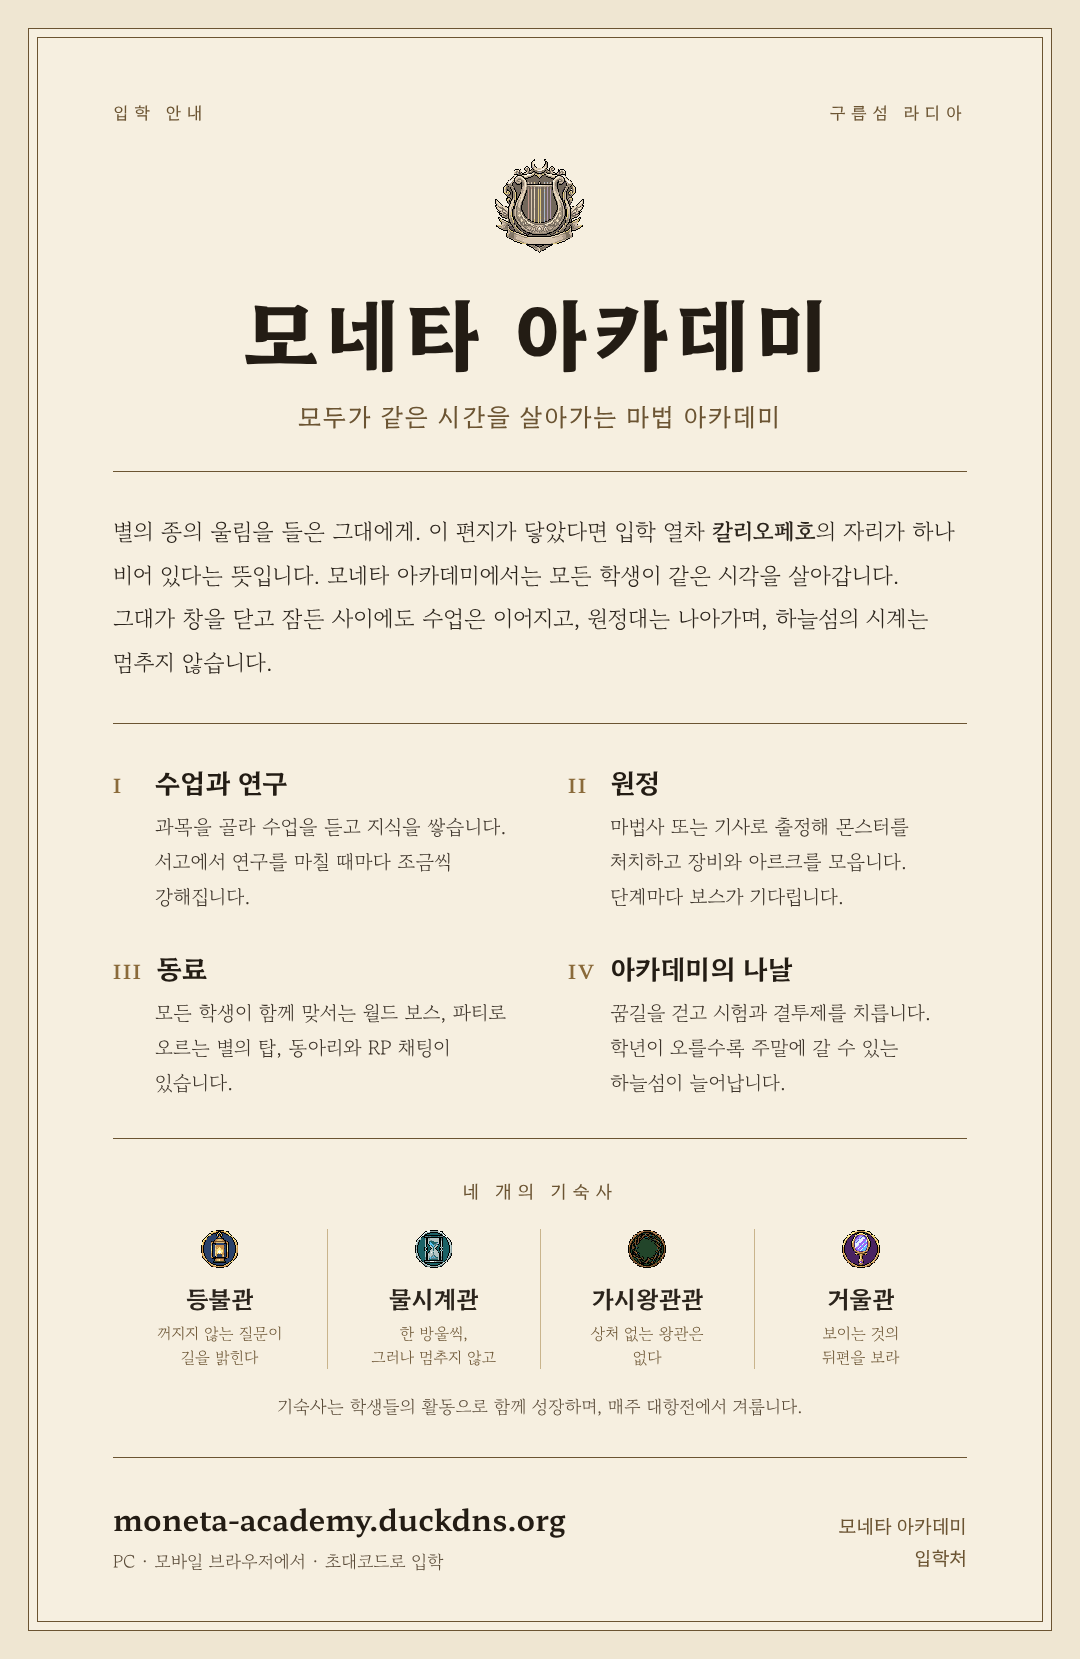
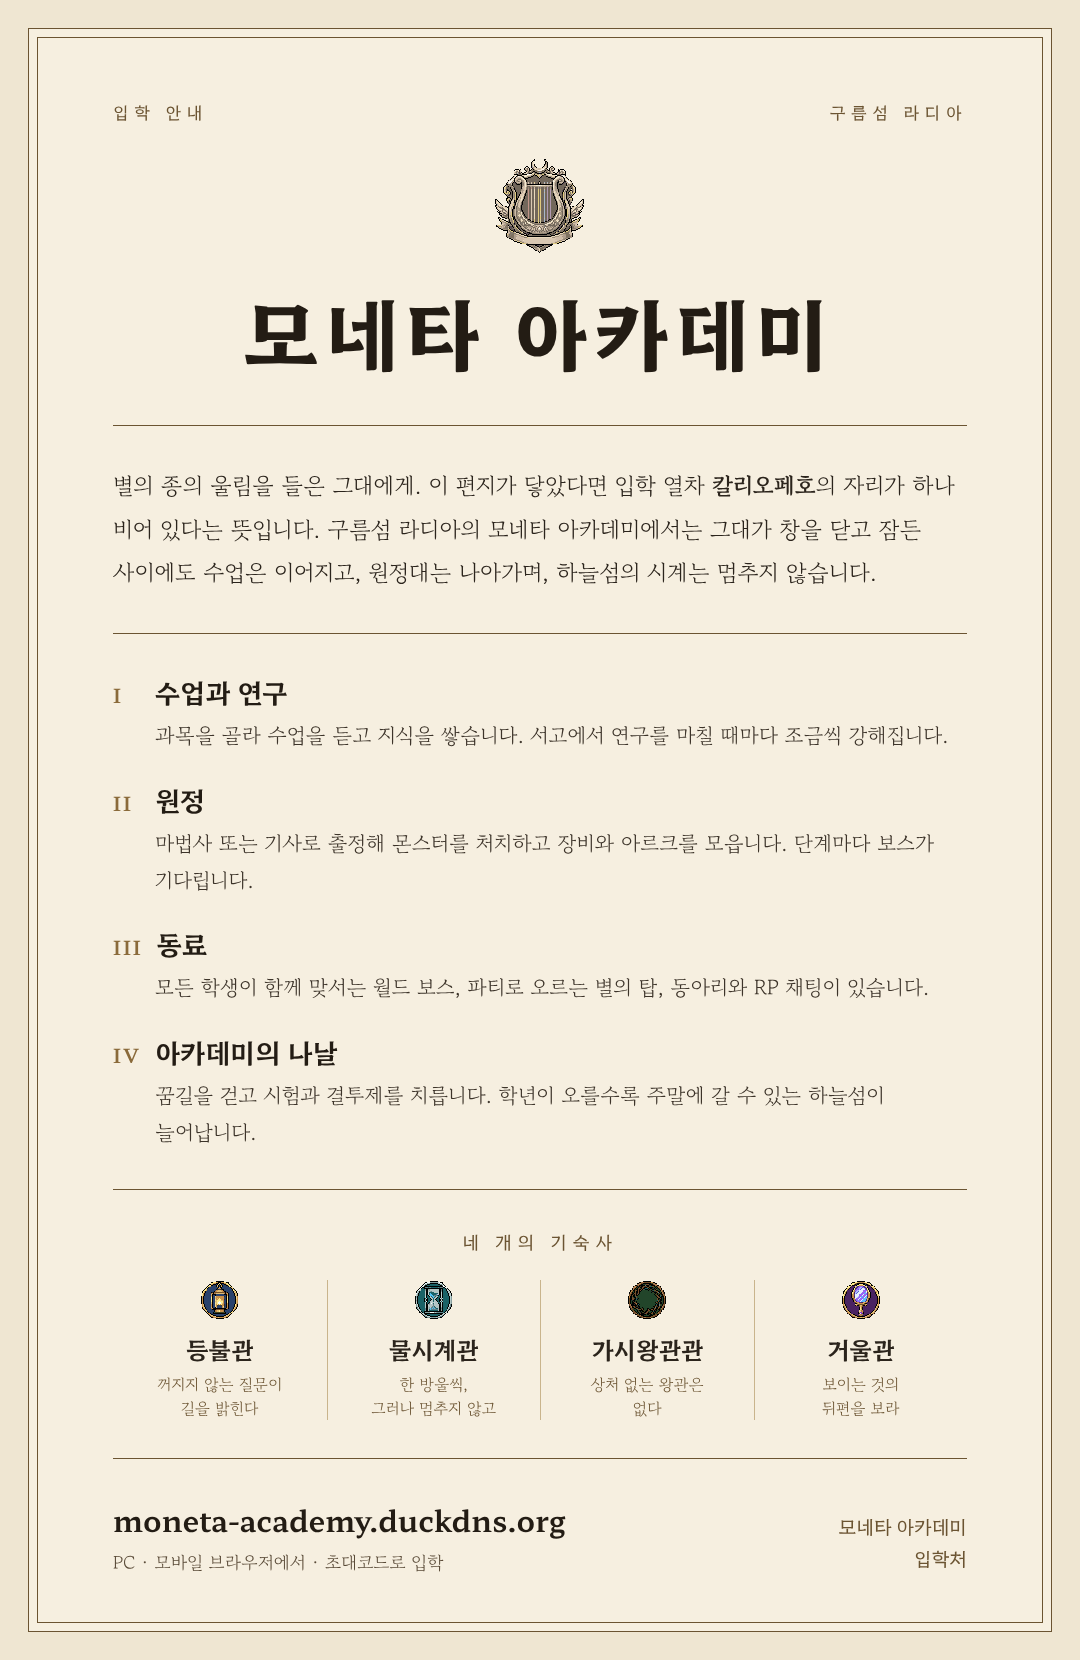
소개 이미지: 부제 · 대항전 문구 제거, 항목을 한 줄씩
Claude-Session: https://claude.ai/code/session_01DrLwNTvEiJ85PeDgrBabhU

diff --git a/docs/promo/intro.tpl.html b/docs/promo/intro.tpl.html
@@ -13,10 +13,10 @@ hr{border:0;border-top:1px solid #6b5432;margin:38px 0}
 hr.d{border-top:1px solid #6b5432;position:relative;overflow:visible}
 .letter{font-size:23px;line-height:1.9;text-align:left;word-break:keep-all}
 .letter b{font-weight:700}
-.cols{display:grid;grid-template-columns:1fr 1fr;column-gap:56px;row-gap:34px}
+.cols{display:flex;flex-direction:column;gap:26px}
 .item h2{font-family:'Hahmlet',serif;font-weight:600;font-size:27px;color:#231c14;display:flex;gap:14px;align-items:baseline}
 .item h2 i{font-style:normal;font-size:19px;color:#8a6a3a;letter-spacing:.1em;min-width:28px}
-.item p{font-size:20px;line-height:1.75;margin-top:8px;padding-left:42px;word-break:keep-all;color:#3d342a}
+.item p{font-size:21px;line-height:1.75;margin-top:6px;padding-left:42px;word-break:keep-all;color:#3d342a}
 .cap{font-family:'Hahmlet',serif;font-size:18px;letter-spacing:.32em;color:#6b5432;text-align:center;margin-bottom:26px}
 .houses{display:grid;grid-template-columns:repeat(4,1fr);text-align:center}
 .houses div{padding:0 10px;border-left:1px solid #c9b48c}
@@ -33,9 +33,8 @@ hr.d{border-top:1px solid #6b5432;position:relative;overflow:visible}
 <div class="top"><span>입학 안내</span><span>구름섬 라디아</span></div>
 <div class="seal"><img src="{{logo}}" alt=""></div>
 <h1>모네타 아카데미</h1>
-<div class="sub">모두가 같은 시간을 살아가는 마법 아카데미</div>
 <hr>
-<p class="letter">별의 종의 울림을 들은 그대에게. 이 편지가 닿았다면 입학 열차 <b>칼리오페호</b>의 자리가 하나 비어 있다는 뜻입니다. 모네타 아카데미에서는 모든 학생이 같은 시각을 살아갑니다. 그대가 창을 닫고 잠든 사이에도 수업은 이어지고, 원정대는 나아가며, 하늘섬의 시계는 멈추지 않습니다.</p>
+<p class="letter">별의 종의 울림을 들은 그대에게. 이 편지가 닿았다면 입학 열차 <b>칼리오페호</b>의 자리가 하나 비어 있다는 뜻입니다. 구름섬 라디아의 모네타 아카데미에서는 그대가 창을 닫고 잠든 사이에도 수업은 이어지고, 원정대는 나아가며, 하늘섬의 시계는 멈추지 않습니다.</p>
 <hr>
 <div class="cols">
  <div class="item"><h2><i>I</i>수업과 연구</h2><p>과목을 골라 수업을 듣고 지식을 쌓습니다. 서고에서 연구를 마칠 때마다 조금씩 강해집니다.</p></div>
@@ -51,7 +50,6 @@ hr.d{border-top:1px solid #6b5432;position:relative;overflow:visible}
  <div><img src="{{corona}}" alt=""><b>가시왕관관</b><em>상처 없는 왕관은<br>없다</em></div>
  <div><img src="{{speculum}}" alt=""><b>거울관</b><em>보이는 것의<br>뒤편을 보라</em></div>
 </div>
-<p class="note">기숙사는 학생들의 활동으로 함께 성장하며, 매주 대항전에서 겨룹니다.</p>
 <hr>
 <div class="foot">
  <div><div class="url">moneta-academy.duckdns.org</div><div class="how">PC · 모바일 브라우저에서 · 초대코드로 입학</div></div>

diff --git a/docs/promo/README.md b/docs/promo/README.md
@@ -1,4 +1,4 @@
 # 소개 이미지
 
-- `moneta-intro.png` — 게임을 처음 소개하는 한 장짜리 이미지 (1080×1659, 입학 안내문 형식)
+- `moneta-intro.png` — 게임을 처음 소개하는 한 장짜리 이미지 (1080×1660, 입학 안내문 형식)
 - `intro.tpl.html` — 원본. `{{키}}` 자리에 `public/app.js`의 `DOT_IMG` 그림(`logo`는 `public/logo.png`)을 data URI로 넣어 브라우저로 렌더링해 캡처한다.
